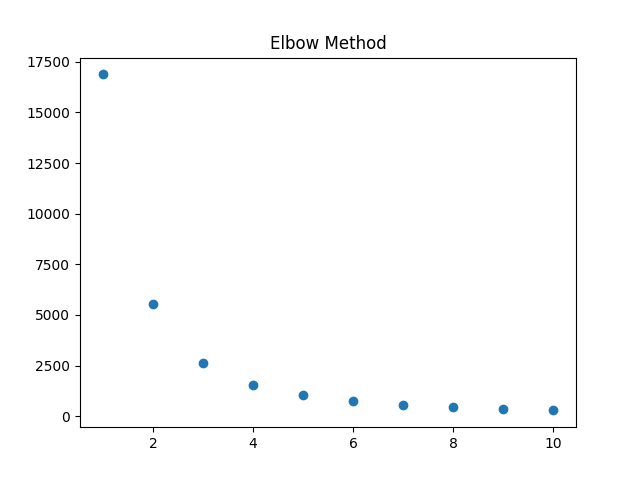
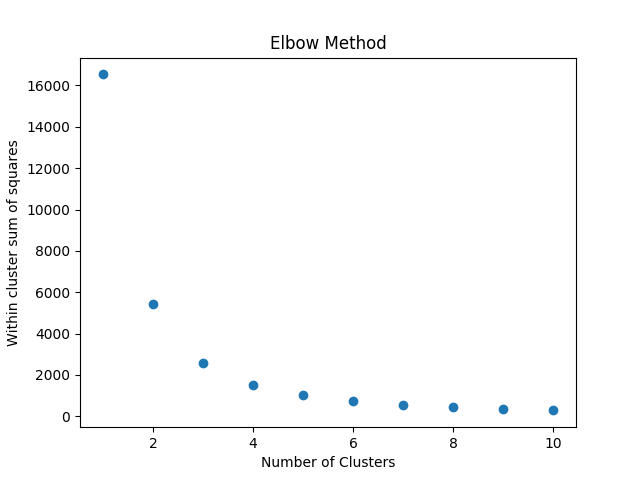
update the labels

diff --git a/Clusteringpart2.py b/Clusteringpart2.py
@@ -55,10 +55,10 @@ def plotKmeansOptimal(k,result):
     #
     import matplotlib.pyplot as plt
     plt.scatter(result[:,0],result[:,1], c=y_kmeans1)
-
     # cluster centers
     centers=km1.cluster_centers_
     plt.scatter(centers[:,0],centers[:,1], c='red')
+    plt.title("K-Means Clustering with 5 clusters")
     plt.savefig('clustering_optimal.png')
 
 
@@ -80,6 +80,7 @@ def plotKmeansAccount(k, result):
     # cluster centers
     centers=km2.cluster_centers_
     plt.scatter(centers[:,0],centers[:,1], c='red')
+    plt.title("K-Means Clustering with 16 clusters")
     plt.savefig('clustering.png')
 
 

diff --git a/Optionalpart.py b/Optionalpart.py
@@ -49,6 +49,8 @@ def Kcluster(result):
     import matplotlib.pyplot as plt
     plt.scatter(range(1,11),wcc)
     plt.title("Elbow Method")
+    plt.xlabel("Number of Clusters")
+    plt.ylabel("Within cluster sum of squares")
     plt.savefig('Elbow.png')
 
 
